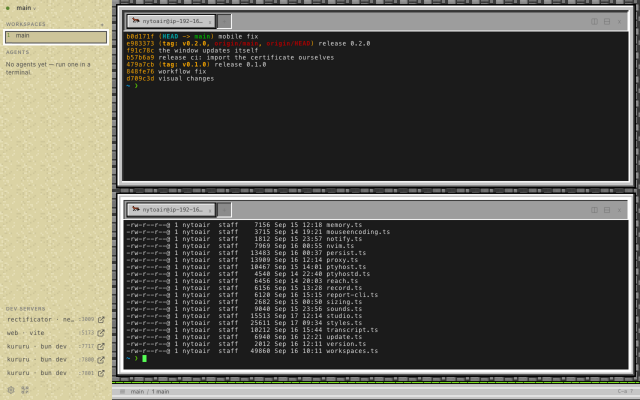
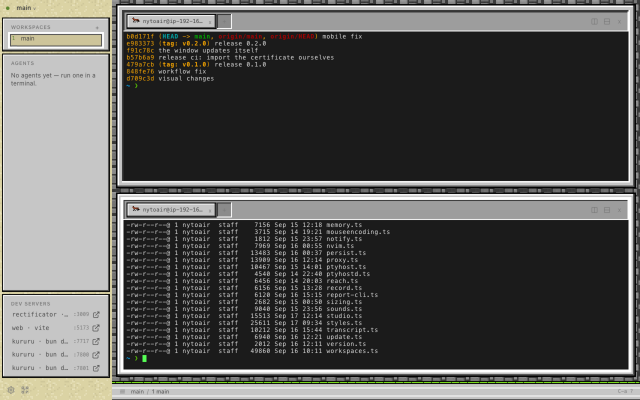
more stuff

Changed region(s): [[0.0, 0.03, 0.1875, 0.96], [0.3125, 0.09, 0.5938, 0.12]]

diff --git a/AGENTS.md b/AGENTS.md
@@ -86,7 +86,7 @@ stop catching the mistake.
 A skin's `parts` name PNGs in its own directory and say how each is cut. The
 things that go wrong:
 
-- **A part name is one of twelve** — `schema/tokens.json` lists them under
+- **A part name is one of thirteen** — `schema/tokens.json` lists them under
   `skin.parts`. It names a region of the window (`statusbar`), never a class.
 - **A slice has to leave a middle.** Top plus bottom no more than the picture's
   height, left plus right no more than its width. The validator checks this

diff --git a/CONTRIBUTING.md b/CONTRIBUTING.md
@@ -142,6 +142,7 @@ stylesheet under you:
 | `tool` | the small icon buttons: split, close, run, the cog |
 | `button` | the filled buttons in dialogs |
 | `row-on` | the selected workspace and agent in the sidebar |
+| `panel` | the three boxes in the sidebar: workspaces, agents, dev servers — what keeps the rows readable on a busy sidebar picture |
 | `statusbar` | the bar along the bottom |
 | `dialog` | every popup: Settings, prompts, menus |
 
